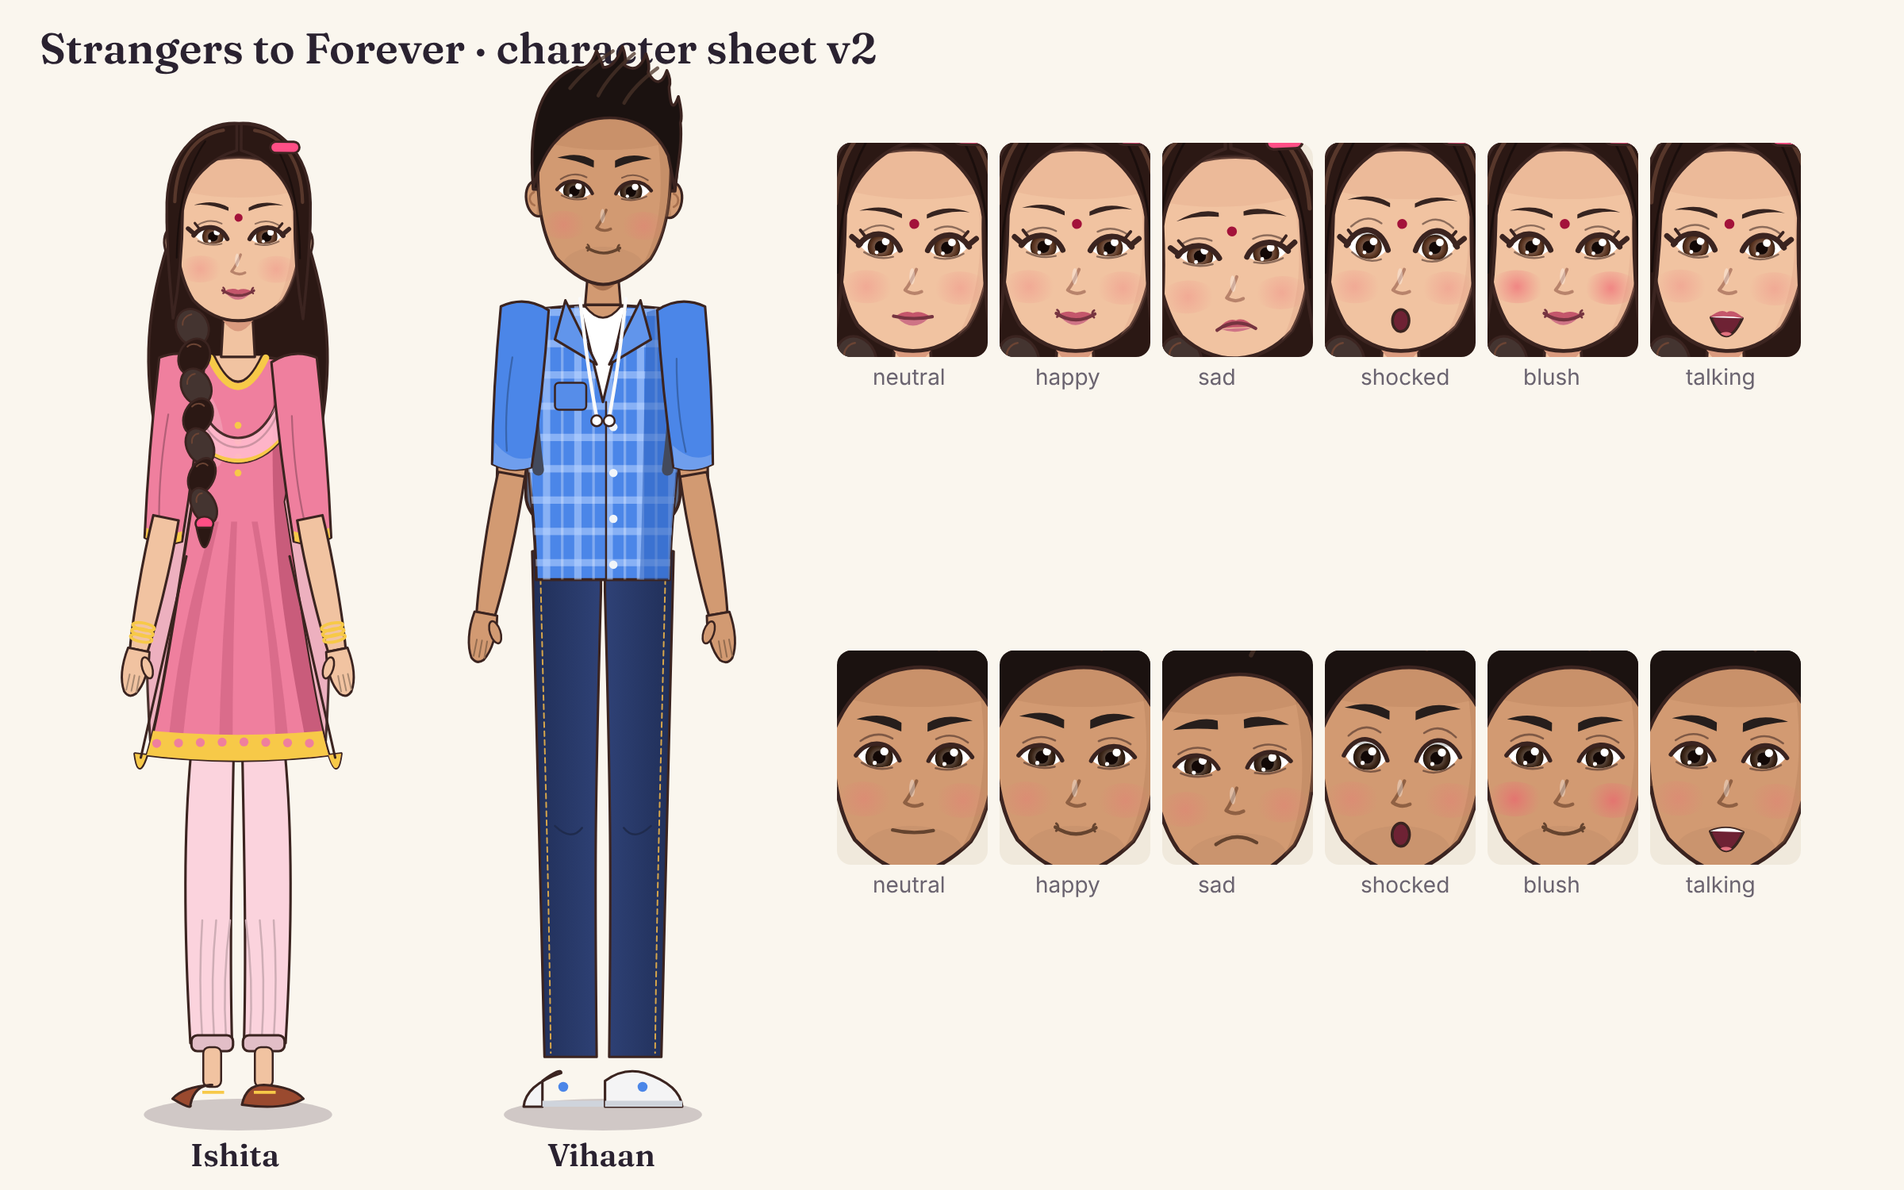
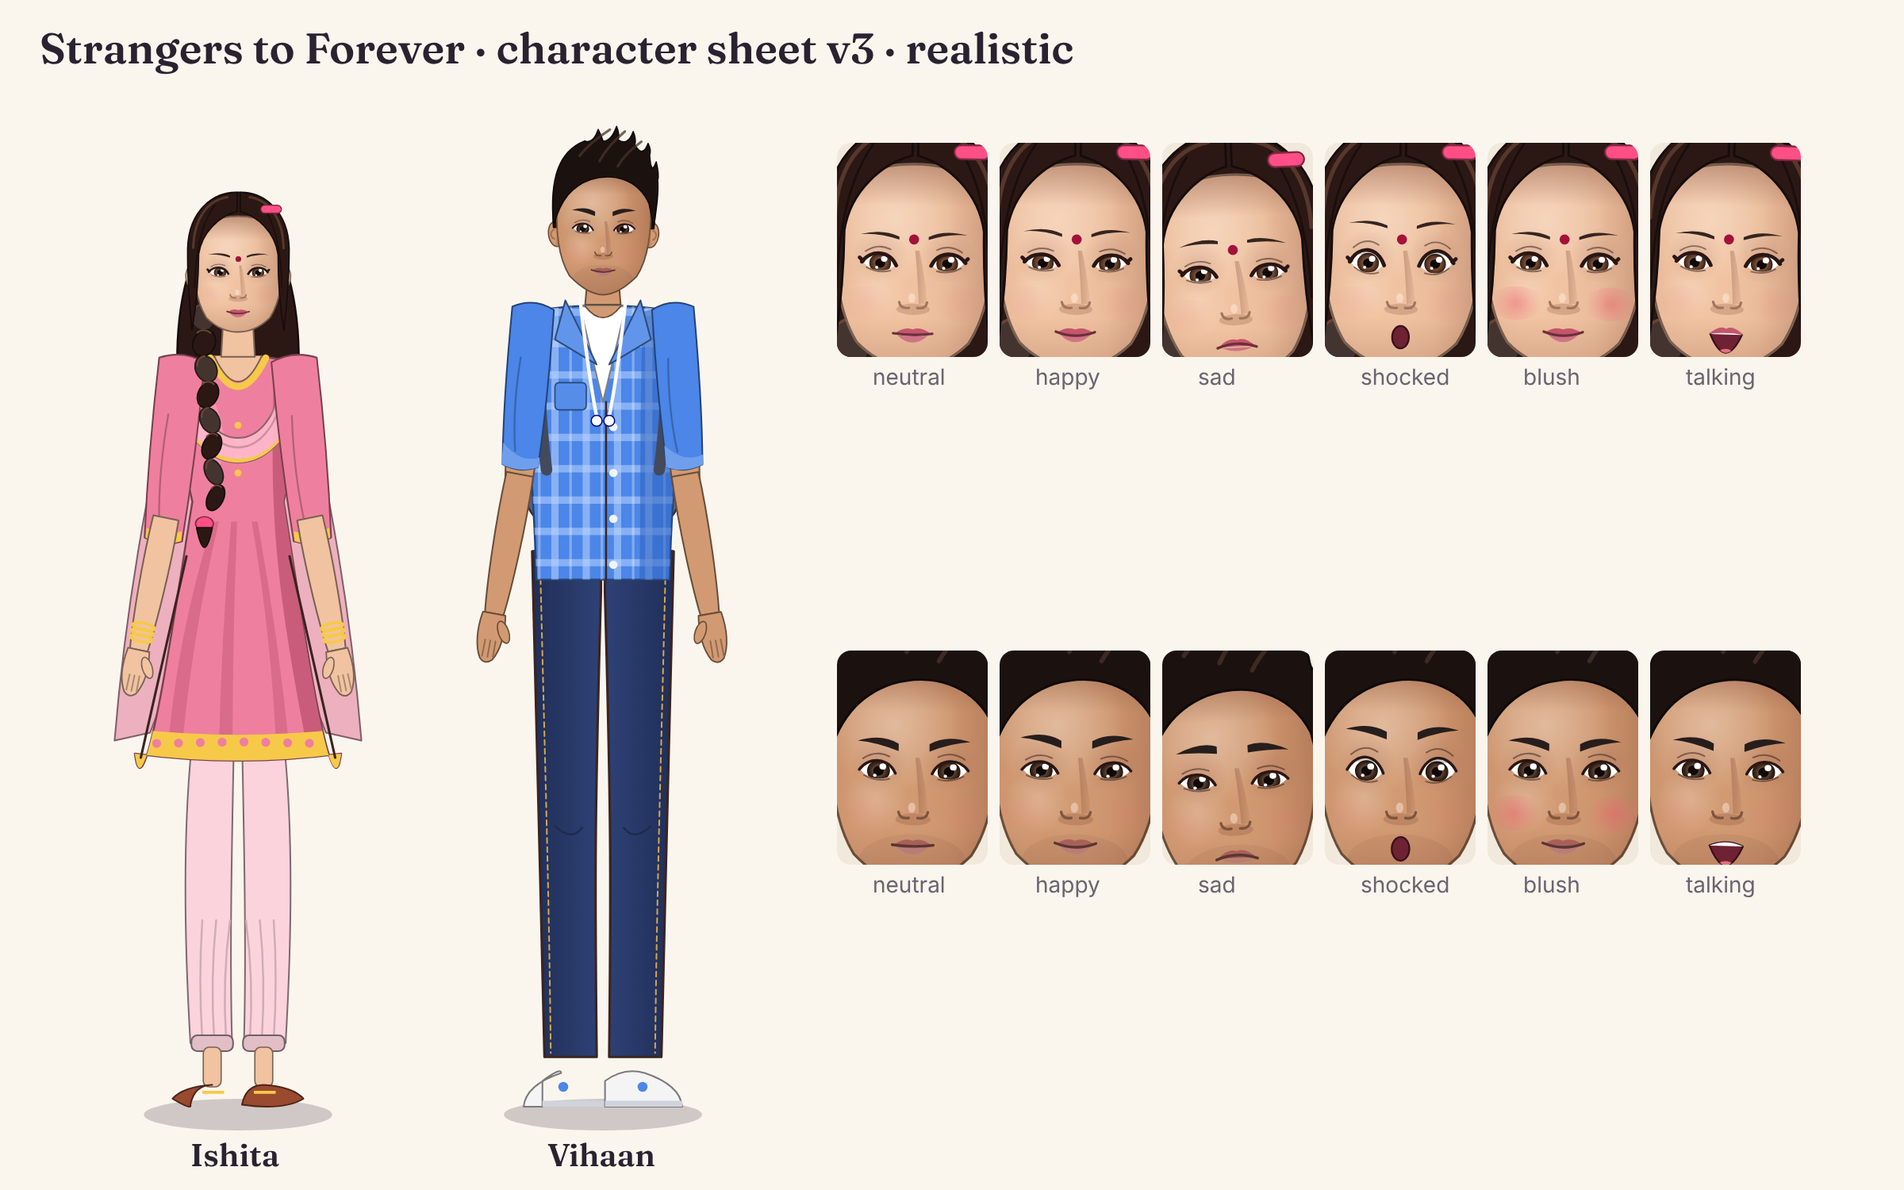
Characters v3: semi-realistic mode (proportions, eyes, soft shading, nose, lips, thin coloured lines)
Claude-Session: https://claude.ai/code/session_01YJoVKQEVme6JLL6VnnTi9P

diff --git a/engine/engine3.js b/engine/engine3.js
@@ -2,6 +2,7 @@
 // hero3(ctx, x, y, s, L, o): (x, y) = point between the feet. Units: Ishita ≈ 960 tall at s = 1.
 // o: { t, emo: neutral|happy|sad|shocked|firm|blush|angry, talk 0..1, look -1..1, pose: idle|talk|wave|hips|sad|shocked|phone, tilt, walking }
 const INK3 = '#3b2420';
+let REAL3 = true; // semi-realistic rendering (thin coloured lines, smaller heads, soft shading)
 
 function sh3(hex, amt) { // shade hex colour: amt -1..1
   const n = parseInt(hex.slice(1), 16); const r = n >> 16, g = (n >> 8) & 255, b = n & 255;
@@ -13,7 +14,7 @@ function P(ctx, pts, close = true) { // smooth path through points using quadrat
   for (let i = 1; i < pts.length - 1; i++) { const mx = (pts[i][0] + pts[i + 1][0]) / 2, my = (pts[i][1] + pts[i + 1][1]) / 2; ctx.quadraticCurveTo(pts[i][0], pts[i][1], mx, my); }
   const l = pts[pts.length - 1]; ctx.lineTo(l[0], l[1]); if (close) ctx.closePath();
 }
-function F3(ctx, fill, lw = 3, ink = INK3) { ctx.fillStyle = fill; ctx.fill(); if (lw) { ctx.lineWidth = lw; ctx.strokeStyle = ink; ctx.lineJoin = 'round'; ctx.lineCap = 'round'; ctx.stroke(); } }
+function F3(ctx, fill, lw = 3, ink = INK3) { ctx.fillStyle = fill; ctx.fill(); if (REAL3 && typeof fill === 'string' && fill[0] === '#' && ink === INK3) { ink = sh3(fill, -.5); lw *= .65; } if (lw) { ctx.lineWidth = lw; ctx.strokeStyle = ink; ctx.lineJoin = 'round'; ctx.lineCap = 'round'; ctx.stroke(); } }
 function shadeIn(ctx, clipPath, fn) { ctx.save(); clipPath(); ctx.clip(); fn(); ctx.restore(); }
 
 const CAST3 = {
@@ -47,18 +48,19 @@ function hero3(ctx, x, y, s, L, o = {}) {
   // vertical landmarks
   const nk = fem ? 0 : 12 * k;
   const Y = { chin: -800 * k, neckB: -768 * k + breathe - nk, sh: -755 * k + breathe - nk, chest: -690 * k + breathe, waist: -615 * k + breathe * .5, hip: -555 * k, knee: -290 * k, ankle: -42 * k };
-  const shW = (fem ? 66 : 84) * k, waW = (fem ? 46 : 62) * k, hiW = (fem ? 64 : 64) * k;
+  const shW = (fem ? 66 : (REAL3 ? 76 : 84)) * k, waW = (fem ? 46 : 62) * k, hiW = (fem ? 64 : 64) * k;
   const arms = pose3(pose, t + (o.phase || 0), talk);
 
   // ---------- back layers: back hair, dupatta tails, backpack ----------
   if (L.style === 'braid') { // long hair falling behind the shoulders
-    ctx.beginPath(); ctx.moveTo(-60 * k, -905 * k); ctx.bezierCurveTo(-92 * k, -820 * k, -96 * k, -760 * k, -84 * k, -690 * k);
-    ctx.lineTo(84 * k, -690 * k); ctx.bezierCurveTo(96 * k, -760 * k, 92 * k, -820 * k, 60 * k, -905 * k); ctx.closePath(); F3(ctx, L.hair);
+    const hw = REAL3 ? .68 : 1, top = REAL3 ? -870 : -905;
+    ctx.beginPath(); ctx.moveTo(-60 * k * hw, top * k); ctx.bezierCurveTo(-92 * k * hw, -820 * k, -96 * k * hw, -760 * k, -84 * k * hw, -690 * k);
+    ctx.lineTo(84 * k * hw, -690 * k); ctx.bezierCurveTo(96 * k * hw, -760 * k, 92 * k * hw, -820 * k, 60 * k * hw, top * k); ctx.closePath(); F3(ctx, L.hair);
   }
   if (L.dupatta) {
     const sw = Math.sin(t * 2.2) * 6;
-    for (const sd of [-1, 1]) { ctx.beginPath(); ctx.moveTo(sd * (shW - 6), Y.sh - 4); ctx.bezierCurveTo(sd * (shW + 22 + sw), Y.sh + 120, sd * (shW + 26 + sw), Y.sh + 260, sd * (shW + 16 + sw * 1.4), Y.sh + 380);
-      ctx.lineTo(sd * (shW - 34 + sw), Y.sh + 366); ctx.bezierCurveTo(sd * (shW - 26), Y.sh + 250, sd * (shW - 30), Y.sh + 110, sd * (shW - 40), Y.sh + 6); ctx.closePath();
+    for (const sd of [-1, 1]) { ctx.beginPath(); ctx.moveTo(sd * (shW - 6), Y.sh - 4); ctx.bezierCurveTo(sd * (shW + 22 + sw), Y.sh + 120, sd * (104 * k + 6 + sw), Y.sh + 260, sd * (118 * k + sw * 1.4), Y.sh + 380);
+      ctx.lineTo(sd * (84 * k + sw), Y.sh + 372); ctx.bezierCurveTo(sd * (shW - 26), Y.sh + 250, sd * (shW - 30), Y.sh + 110, sd * (shW - 40), Y.sh + 6); ctx.closePath();
       ctx.globalAlpha = .92; F3(ctx, sh3(L.dupatta, -.08), 2.5); ctx.globalAlpha = 1; }
   }
   if (L.bag) { ctx.beginPath(); ctx.roundRect(-74 * k, Y.sh + 8, 148 * k, 200 * k, 34 * k); F3(ctx, L.bag); }
@@ -144,8 +146,9 @@ function hero3(ctx, x, y, s, L, o = {}) {
 
   // braid over the shoulder (in front)
   if (L.style === 'braid') { const sw = Math.sin(t * 2) * 3;
-    for (let i = 0; i < 7; i++) { const yy = -790 * k + i * 30 * k, xx = -46 * k + i * 1.6 * k + sw * i / 7;
-      ctx.beginPath(); ctx.ellipse(xx, yy, (16 - i * .7) * k, 19 * k, i % 2 ? .45 : -.45, 0, 7); F3(ctx, i % 2 ? L.hair : sh3(L.hair, .12), 2.2);
+    const bw = REAL3 ? .72 : 1;
+    for (let i = 0; i < (REAL3 ? 8 : 7); i++) { const yy = (REAL3 ? -800 : -790) * k + i * (REAL3 ? 26 : 30) * k, xx = (REAL3 ? -36 : -46) * k + i * 1.6 * k + sw * i / 7;
+      ctx.beginPath(); ctx.ellipse(xx, yy, (16 - i * .7) * k * bw, 19 * k * bw, i % 2 ? .45 : -.45, 0, 7); F3(ctx, i % 2 ? L.hair : sh3(L.hair, .12), 2.2);
       ctx.strokeStyle = L.hairHi; ctx.lineWidth = 1.6; ctx.beginPath(); ctx.ellipse(xx, yy - 4, (10 - i * .5) * k, 9 * k, i % 2 ? .45 : -.45, Math.PI * 1.1, Math.PI * 1.6); ctx.stroke(); }
     ctx.beginPath(); ctx.ellipse(-36 * k + sw, -592 * k, 9 * k, 7 * k, 0, 0, 7); F3(ctx, L.clip, 2);
     ctx.beginPath(); ctx.moveTo(-44 * k + sw, -588 * k); ctx.quadraticCurveTo(-36 * k + sw, -548 * k, -28 * k + sw, -588 * k); ctx.closePath(); F3(ctx, L.hair, 2); }
@@ -153,7 +156,7 @@ function hero3(ctx, x, y, s, L, o = {}) {
   // ---------- head ----------
   const tilt = (o.tilt || 0) + (emo === 'sad' ? -.06 : 0) + (talk > .05 ? Math.sin(t * 4.2) * .03 : Math.sin(t * .9) * .015);
   ctx.save(); ctx.translate(0, Y.chin + 8 * k); ctx.rotate(tilt); ctx.translate(0, -(Y.chin + 8 * k)); if (emo === 'sad') ctx.translate(0, 6);
-  ctx.translate(0, Y.chin + 8 * k); ctx.scale(1.13, 1.13); ctx.translate(0, -(Y.chin + 8 * k));
+  ctx.translate(0, Y.chin + 8 * k); const hs = REAL3 ? .8 : 1.13; if (REAL3) ctx.translate(0, 10 * k); ctx.scale(hs, hs); ctx.translate(0, -(Y.chin + 8 * k));
   head3(ctx, L, t + (o.phase || 0), emo, talk, look, k);
   ctx.restore();
   ctx.restore();
@@ -167,7 +170,8 @@ function arm3(ctx, L, sd, sx, sy, a1, a2, sl, k) {
   upper(); F3(ctx, L.skin, 2.5);
   // sleeve over the upper arm
   ctx.beginPath(); const sLen = L.female ? u * 1.12 : u * .92;
-  ctx.moveTo(-23 * k, -14); ctx.bezierCurveTo(-24 * k, sLen * .4, -21 * k, sLen * .8, -19 * k, sLen); ctx.quadraticCurveTo(0, sLen + 8, 19 * k, sLen); ctx.bezierCurveTo(21 * k, sLen * .8, 24 * k, sLen * .4, 23 * k, -14); ctx.quadraticCurveTo(0, -26 * k, -23 * k, -14); ctx.closePath(); F3(ctx, sl.c, 2.5);
+  const sw0 = L.female ? 23 : 20, sw1 = L.female ? 19 : 17;
+  ctx.moveTo(-sw0 * k, -14); ctx.bezierCurveTo(-(sw0 + 1) * k, sLen * .4, -(sw1 + 2) * k, sLen * .8, -sw1 * k, sLen); ctx.quadraticCurveTo(0, sLen + 8, sw1 * k, sLen); ctx.bezierCurveTo((sw1 + 2) * k, sLen * .8, (sw0 + 1) * k, sLen * .4, sw0 * k, -14); ctx.quadraticCurveTo(0, -24 * k, -sw0 * k, -14); ctx.closePath(); F3(ctx, sl.c, 2.5);
   ctx.strokeStyle = sh3(sl.c, -.25); ctx.lineWidth = 1.8; ctx.beginPath(); ctx.moveTo(-8 * k, sLen * .25); ctx.quadraticCurveTo(-12 * k, sLen * .6, -6 * k, sLen * .9); ctx.stroke();
   ctx.fillStyle = sl.cuff; ctx.beginPath(); ctx.moveTo(-18 * k, sLen - (L.female ? 10 : 22)); ctx.quadraticCurveTo(0, sLen - 2, 18 * k, sLen - 10); ctx.lineTo(18 * k, sLen); ctx.quadraticCurveTo(0, sLen + 8, -18 * k, sLen); ctx.closePath(); ctx.fill();
   ctx.translate(0, u); ctx.rotate(-sd * a2);
@@ -197,19 +201,30 @@ function head3(ctx, L, t, emo, talk, look, k) {
     ctx.bezierCurveTo(-26 * k, cy + 72 * k, -12 * k, cy + (fem ? 76 : 80) * k, 0, cy + (fem ? 76 : 80) * k); ctx.bezierCurveTo(12 * k, cy + (fem ? 76 : 80) * k, 26 * k, cy + 72 * k, 40 * k, cy + 58 * k);
     ctx.bezierCurveTo(54 * k, cy + 36 * k, 58 * k, cy + 4 * k, 56 * k, cy - 40 * k); ctx.bezierCurveTo(50 * k, cy - 80 * k, -50 * k, cy - 80 * k, -56 * k, cy - 40 * k); ctx.closePath(); };
   face(); F3(ctx, L.skin, 2.8);
-  shadeIn(ctx, face, () => { // cel shadow on the far cheek + under the hairline
+  if (REAL3) shadeIn(ctx, face, () => { // soft form shading: side falloff, forehead/cheek light, jaw + under-hair shadow
+    const g = ctx.createLinearGradient(-60 * k, 0, 60 * k, 0); g.addColorStop(0, 'rgba(120,60,40,.10)'); g.addColorStop(.35, 'rgba(255,240,230,0)'); g.addColorStop(.7, 'rgba(120,60,40,.06)'); g.addColorStop(1, 'rgba(110,50,35,.32)');
+    ctx.fillStyle = g; ctx.fillRect(-80 * k, cy - 100 * k, 160 * k, 200 * k);
+    const hi = ctx.createRadialGradient(-14 * k, cy - 30 * k, 2, -14 * k, cy - 30 * k, 46 * k); hi.addColorStop(0, 'rgba(255,248,240,.32)'); hi.addColorStop(1, 'rgba(255,248,240,0)'); ctx.fillStyle = hi; ctx.fillRect(-80 * k, cy - 100 * k, 160 * k, 140 * k);
+    const ch = ctx.createRadialGradient(-26 * k, cy + 22 * k, 2, -26 * k, cy + 22 * k, 22 * k); ch.addColorStop(0, 'rgba(255,248,240,.22)'); ch.addColorStop(1, 'rgba(255,248,240,0)'); ctx.fillStyle = ch; ctx.fillRect(-60 * k, cy, 70 * k, 50 * k);
+    const jw = ctx.createLinearGradient(0, cy + 40 * k, 0, cy + 82 * k); jw.addColorStop(0, 'rgba(110,50,35,0)'); jw.addColorStop(1, 'rgba(110,50,35,.22)'); ctx.fillStyle = jw; ctx.fillRect(-80 * k, cy + 40 * k, 160 * k, 50 * k);
+    const hr = ctx.createLinearGradient(0, cy - 74 * k, 0, cy - 40 * k); hr.addColorStop(0, 'rgba(90,40,30,.35)'); hr.addColorStop(1, 'rgba(90,40,30,0)'); ctx.fillStyle = hr; ctx.fillRect(-80 * k, cy - 80 * k, 160 * k, 40 * k);
+    // eye sockets
+    for (const sd of [-1, 1]) { const es = ctx.createRadialGradient(sd * 24 * k, cy - 4 * k, 2, sd * 24 * k, cy - 4 * k, 20 * k); es.addColorStop(0, 'rgba(120,60,50,.14)'); es.addColorStop(1, 'rgba(120,60,50,0)'); ctx.fillStyle = es; ctx.fillRect(sd * 24 * k - 22 * k, cy - 26 * k, 44 * k, 40 * k); }
+    if (!fem) { ctx.fillStyle = 'rgba(60,40,30,.06)'; ctx.beginPath(); ctx.ellipse(0, cy + 62 * k, 36 * k, 18 * k, 0, 0, 7); ctx.fill(); }
+  });
+  else shadeIn(ctx, face, () => { // cel shadow on the far cheek + under the hairline
     ctx.fillStyle = L.skinSh; ctx.globalAlpha = .26; ctx.beginPath(); ctx.moveTo(42 * k, cy - 60 * k); ctx.bezierCurveTo(54 * k, cy, 48 * k, cy + 50 * k, 22 * k, cy + 80 * k); ctx.lineTo(80 * k, cy + 90 * k); ctx.lineTo(80 * k, cy - 60 * k); ctx.closePath(); ctx.fill();
     ctx.globalAlpha = .22; ctx.beginPath(); ctx.ellipse(0, cy - 54 * k, 70 * k, 20 * k, 0, 0, 7); ctx.fill(); ctx.globalAlpha = 1;
     if (!fem) { ctx.fillStyle = 'rgba(60,40,30,.05)'; ctx.beginPath(); ctx.ellipse(0, cy + 64 * k, 34 * k, 16 * k, 0, 0, 7); ctx.fill(); }
   });
   // blush
   const bl = ctx.createRadialGradient(0, 0, 2, 0, 0, 18 * k);
-  for (const sd of [-1, 1]) { ctx.save(); ctx.translate(sd * 34 * k, cy + 30 * k); const g = ctx.createRadialGradient(0, 0, 1, 0, 0, 18 * k); g.addColorStop(0, emo === 'blush' ? 'rgba(240,90,110,.55)' : 'rgba(240,110,120,.28)'); g.addColorStop(1, 'rgba(240,110,120,0)'); ctx.fillStyle = g; ctx.beginPath(); ctx.ellipse(0, 0, 20 * k, 12 * k, 0, 0, 7); ctx.fill(); ctx.restore(); }
+  for (const sd of [-1, 1]) { ctx.save(); ctx.translate(sd * 34 * k, cy + 30 * k); const g = ctx.createRadialGradient(0, 0, 1, 0, 0, 18 * k); g.addColorStop(0, emo === 'blush' ? 'rgba(235,95,110,.45)' : `rgba(235,120,120,${REAL3 ? .12 : .28})`); g.addColorStop(1, 'rgba(240,110,120,0)'); ctx.fillStyle = g; ctx.beginPath(); ctx.ellipse(0, 0, 20 * k, 12 * k, 0, 0, 7); ctx.fill(); ctx.restore(); }
   // eyes
   const blink = ((t % 3.7) + 3.7) % 3.7 < .12;
   const ey = cy + 2 * k, ex = 24 * k, lx = look * 4 * k;
   for (const sd of [-1, 1]) {
-    ctx.save(); ctx.translate(sd * ex, ey);
+    ctx.save(); ctx.translate(sd * ex, ey); if (REAL3) ctx.scale(.82, .76);
     const wide = emo === 'shocked' ? 1.3 : emo === 'sad' ? .85 : emo === 'happy' && talk < .05 ? .9 : 1;
     if (blink) { ctx.strokeStyle = INK3; ctx.lineWidth = 3.5; ctx.beginPath(); ctx.moveTo(-15 * k, 0); ctx.quadraticCurveTo(0, 6 * k, 15 * k, 0); ctx.stroke(); ctx.restore(); continue; }
     const eye = () => { ctx.beginPath(); ctx.moveTo(-sd * 13 * k, 1 * k); ctx.bezierCurveTo(-sd * 8 * k, -12 * k * wide, sd * 8 * k, -13 * k * wide, sd * 15 * k, -2 * k); ctx.bezierCurveTo(sd * 8 * k, 8 * k * wide, -sd * 6 * k, 8 * k * wide, -sd * 13 * k, 1 * k); ctx.closePath(); };
@@ -222,9 +237,9 @@ function head3(ctx, L, t, emo, talk, look, k) {
       ctx.fillStyle = '#fff'; ctx.beginPath(); ctx.arc(lx + 3.5 * k, -5 * k, 2.8 * k, 0, 7); ctx.fill(); ctx.beginPath(); ctx.arc(lx - 3 * k, 3 * k, 1.4 * k, 0, 7); ctx.fill();
     });
     // upper lash line (thick, with a flick for her), lower lash, crease
-    ctx.strokeStyle = INK3; ctx.lineCap = 'round'; ctx.lineWidth = (fem ? 4 : 3) * k;
+    ctx.strokeStyle = REAL3 ? '#2a1612' : INK3; ctx.lineCap = 'round'; ctx.lineWidth = (fem ? (REAL3 ? 3.4 : 4) : (REAL3 ? 2.4 : 3)) * k;
     ctx.beginPath(); ctx.moveTo(-sd * 14 * k, 1 * k); ctx.bezierCurveTo(-sd * 8 * k, -13 * k * wide, sd * 8 * k, -14 * k * wide, sd * 16 * k, -2 * k); ctx.stroke();
-    if (fem) { ctx.beginPath(); ctx.moveTo(sd * 15 * k, -3 * k); ctx.lineTo(sd * 21 * k, -8 * k); ctx.stroke(); ctx.beginPath(); ctx.moveTo(sd * 11 * k, -8 * k); ctx.lineTo(sd * 15 * k, -13 * k); ctx.lineWidth = 2.2 * k; ctx.stroke(); }
+    if (fem) { ctx.beginPath(); ctx.moveTo(sd * 15 * k, -3 * k); ctx.lineTo(sd * (REAL3 ? 18 : 21) * k, (REAL3 ? -6 : -8) * k); ctx.stroke(); if (!REAL3) { ctx.beginPath(); ctx.moveTo(sd * 11 * k, -8 * k); ctx.lineTo(sd * 15 * k, -13 * k); ctx.lineWidth = 2.2 * k; ctx.stroke(); } }
     ctx.lineWidth = 1.4 * k; ctx.strokeStyle = 'rgba(59,36,32,.55)'; ctx.beginPath(); ctx.moveTo(-sd * 9 * k, 6 * k * wide); ctx.quadraticCurveTo(sd * 2 * k, 9 * k * wide, sd * 12 * k, 3 * k); ctx.stroke();
     ctx.beginPath(); ctx.moveTo(-sd * 9 * k, -14 * k * wide); ctx.quadraticCurveTo(sd * 2 * k, -20 * k * wide, sd * 13 * k, -12 * k * wide); ctx.stroke();
     ctx.restore();
@@ -232,14 +247,22 @@ function head3(ctx, L, t, emo, talk, look, k) {
   // brows: tapered filled shapes
   for (const sd of [-1, 1]) {
     const lift = emo === 'shocked' ? -8 * k : emo === 'happy' ? -2 * k : 0, inner = emo === 'sad' ? -7 * k : (emo === 'firm' || emo === 'angry') ? 6 * k : 0;
-    ctx.save(); ctx.translate(sd * 24 * k, cy - 26 * k + lift);
+    ctx.save(); ctx.translate(sd * 24 * k, cy - (REAL3 ? 20 : 26) * k + lift); if (REAL3) ctx.scale(.9, fem ? .7 : .85);
     ctx.beginPath(); ctx.moveTo(-sd * 15 * k, 3 * k + inner); ctx.quadraticCurveTo(-sd * 2 * k, -5 * k + inner * .5, sd * 16 * k, 1 * k); ctx.quadraticCurveTo(sd * 2 * k, (fem ? -1 : 2) * k + inner * .3, -sd * 15 * k, (fem ? 6 : 9) * k + inner);
     ctx.closePath(); ctx.fillStyle = sh3(L.hair, .05); ctx.fill(); ctx.restore();
   }
   // nose
+  if (REAL3) {
+    const nb = ctx.createLinearGradient(2 * k, 0, 12 * k, 0); nb.addColorStop(0, 'rgba(110,55,40,.28)'); nb.addColorStop(1, 'rgba(110,55,40,0)');
+    ctx.fillStyle = nb; ctx.beginPath(); ctx.moveTo(4 * k, cy - 8 * k); ctx.quadraticCurveTo(9 * k, cy + 14 * k, 10 * k, cy + 30 * k); ctx.lineTo(4 * k, cy + 30 * k); ctx.quadraticCurveTo(3 * k, cy + 10 * k, 1 * k, cy - 8 * k); ctx.closePath(); ctx.fill();
+    ctx.fillStyle = 'rgba(110,55,40,.20)'; ctx.beginPath(); ctx.ellipse(0, cy + 34 * k, 12 * k, 4 * k, 0, 0, 7); ctx.fill();
+    ctx.strokeStyle = sh3(L.skinSh, -.25); ctx.lineWidth = 1.8 * k; ctx.lineCap = 'round';
+    for (const sd of [-1, 1]) { ctx.beginPath(); ctx.moveTo(sd * 3 * k, cy + 33 * k); ctx.quadraticCurveTo(sd * 9 * k, cy + 34 * k, sd * 10 * k, cy + 29 * k); ctx.stroke(); }
+    ctx.fillStyle = 'rgba(255,248,240,.4)'; ctx.beginPath(); ctx.ellipse(-1 * k, cy + 26 * k, 2.5 * k, 3.5 * k, 0, 0, 7); ctx.fill();
+  }
   ctx.strokeStyle = sh3(L.skinSh, -.15); ctx.lineWidth = 2.4 * k; ctx.lineCap = 'round';
-  ctx.beginPath(); ctx.moveTo(2 * k, cy + 17 * k); ctx.quadraticCurveTo(-2 * k, cy + 27 * k, -6 * k, cy + 32 * k); ctx.quadraticCurveTo(0, cy + 36 * k, 6 * k, cy + 33 * k); ctx.stroke();
-  ctx.fillStyle = 'rgba(255,255,255,.35)'; ctx.beginPath(); ctx.ellipse(-1 * k, cy + 22 * k, 2 * k, 6 * k, 0, 0, 7); ctx.fill();
+  if (!REAL3) { ctx.beginPath(); ctx.moveTo(2 * k, cy + 17 * k); ctx.quadraticCurveTo(-2 * k, cy + 27 * k, -6 * k, cy + 32 * k); ctx.quadraticCurveTo(0, cy + 36 * k, 6 * k, cy + 33 * k); ctx.stroke();
+  ctx.fillStyle = 'rgba(255,255,255,.35)'; ctx.beginPath(); ctx.ellipse(-1 * k, cy + 22 * k, 2 * k, 6 * k, 0, 0, 7); ctx.fill(); }
   // mouth / lips (lip-sync)
   const my = cy + 52 * k;
   if (talk > .06) {
@@ -249,16 +272,16 @@ function head3(ctx, L, t, emo, talk, look, k) {
       ctx.fillStyle = '#fff'; ctx.fillRect(-w, my - 6 * k, w * 2, 6 * k); ctx.fillStyle = '#e2717f'; ctx.beginPath(); ctx.ellipse(0, my + h, w * .7, h * .45, 0, 0, 7); ctx.fill(); });
     if (fem) { ctx.fillStyle = L.lips; ctx.beginPath(); ctx.moveTo(-w - 1, my); ctx.quadraticCurveTo(-w * .4, my - 7 * k, 0, my - 4 * k); ctx.quadraticCurveTo(w * .4, my - 7 * k, w + 1, my); ctx.quadraticCurveTo(0, my - 2 * k, -w - 1, my); ctx.fill(); }
   } else {
-    const smile = emo === 'happy' || emo === 'blush' ? 1 : emo === 'sad' ? -1 : emo === 'shocked' ? 0 : .35;
+    const smile = (emo === 'happy' || emo === 'blush' ? 1 : emo === 'sad' ? -1 : emo === 'shocked' ? 0 : .35) * (REAL3 ? .6 : 1);
     if (emo === 'shocked') { ctx.beginPath(); ctx.ellipse(0, my + 2 * k, 6 * k, 8 * k, 0, 0, 7); F3(ctx, '#6e2234', 2); }
     else {
-      if (fem) { // shaped lips
+      if (fem || REAL3) { // shaped lips
         ctx.fillStyle = L.lips; ctx.beginPath(); ctx.moveTo(-13 * k, my - smile * 2 * k); ctx.quadraticCurveTo(-6 * k, my - 6 * k, 0, my - 3.5 * k); ctx.quadraticCurveTo(6 * k, my - 6 * k, 13 * k, my - smile * 2 * k);
         ctx.quadraticCurveTo(0, my + (smile > 0 ? 3 : 1) * k, -13 * k, my - smile * 2 * k); ctx.fill();
         ctx.fillStyle = sh3(L.lips, .18); ctx.beginPath(); ctx.moveTo(-11 * k, my - smile * 1.5 * k + 1); ctx.quadraticCurveTo(0, my + (smile > 0 ? 11 : 7) * k, 11 * k, my - smile * 1.5 * k + 1); ctx.quadraticCurveTo(0, my + 2 * k, -11 * k, my - smile * 1.5 * k + 1); ctx.fill();
       }
-      ctx.strokeStyle = sh3(fem ? L.lips : L.skinSh, -.4); ctx.lineWidth = 2.4 * k; ctx.beginPath(); ctx.moveTo(-14 * k, my - smile * 3 * k); ctx.quadraticCurveTo(0, my + smile * 6 * k, 14 * k, my - smile * 3 * k); ctx.stroke();
-      if (smile > .5) { ctx.lineWidth = 1.6 * k; ctx.beginPath(); ctx.arc(-15 * k, my - 3 * k, 3 * k, -1, 1); ctx.stroke(); ctx.beginPath(); ctx.arc(15 * k, my - 3 * k, 3 * k, Math.PI - 1, Math.PI + 1); ctx.stroke(); }
+      ctx.strokeStyle = sh3(fem ? L.lips : L.lips, -.45); ctx.lineWidth = (REAL3 ? 1.8 : 2.4) * k; ctx.beginPath(); ctx.moveTo(-14 * k, my - smile * 3 * k); ctx.quadraticCurveTo(0, my + smile * 6 * k, 14 * k, my - smile * 3 * k); ctx.stroke();
+      if (smile > .5 && !REAL3) { ctx.lineWidth = 1.6 * k; ctx.beginPath(); ctx.arc(-15 * k, my - 3 * k, 3 * k, -1, 1); ctx.stroke(); ctx.beginPath(); ctx.arc(15 * k, my - 3 * k, 3 * k, Math.PI - 1, Math.PI + 1); ctx.stroke(); }
     }
   }
   if (L.bindi) { ctx.fillStyle = L.bindi; ctx.beginPath(); ctx.arc(0, cy - 16 * k, 3.6 * k, 0, 7); ctx.fill(); }

diff --git a/studio/animations/characters/sheet.html b/studio/animations/characters/sheet.html
@@ -5,7 +5,7 @@ const cv = document.getElementById('c'), ctx = cv.getContext('2d');
 window.draw = async () => {
   for (const [f, u, w] of [['Title', '../style-sampler/src/assets/title.woff2', 600]]) { try { document.fonts.add(await new FontFace(f, `url(${u})`, { weight: String(w) }).load()); } catch (e) {} }
   ctx.fillStyle = '#faf6ee'; ctx.fillRect(0, 0, 2400, 1500);
-  ctx.fillStyle = '#2a2230'; ctx.font = '600 54px Title'; ctx.fillText('Strangers to Forever · character sheet v2', 50, 80);
+  ctx.fillStyle = '#2a2230'; ctx.font = '600 54px Title'; ctx.fillText('Strangers to Forever · character sheet v3 · realistic', 50, 80);
   // full bodies
   hero3(ctx, 300, 1400, 1.25, CAST3.ishita, { t: .4, emo: 'happy', look: .3 });
   hero3(ctx, 760, 1400, 1.25, CAST3.vihaan, { t: 1.1, emo: 'happy', look: -.3 });
@@ -16,7 +16,7 @@ window.draw = async () => {
     for (const [r, L, key] of [[0, CAST3.ishita, 'ishita'], [1, CAST3.vihaan, 'vihaan']]) {
       const x = 1150 + i * 205, y = 180 + r * 640;
       ctx.save(); ctx.beginPath(); ctx.roundRect(x - 95, y, 190, 270, 18); ctx.fillStyle = '#f0e9dc'; ctx.fill(); ctx.clip();
-      hero3(ctx, x, y + 1290 * 1.0 * (L.H / 960) * 1.1 + 70, 1.1 * 1.4, L, { t: 1.9, emo: e === 'talking' ? 'neutral' : e, talk, look: 0, pose: 'idle' });
+      hero3(ctx, x, y + 150 + 2.2 * 846 * (L.H / 960), 2.2, L, { t: 1.9, emo: e === 'talking' ? 'neutral' : e, talk, look: 0, pose: 'idle' });
       ctx.restore(); ctx.fillStyle = '#6b6470'; ctx.font = '28px system-ui'; ctx.fillText(e, x - 50, y + 305);
     }
   });
